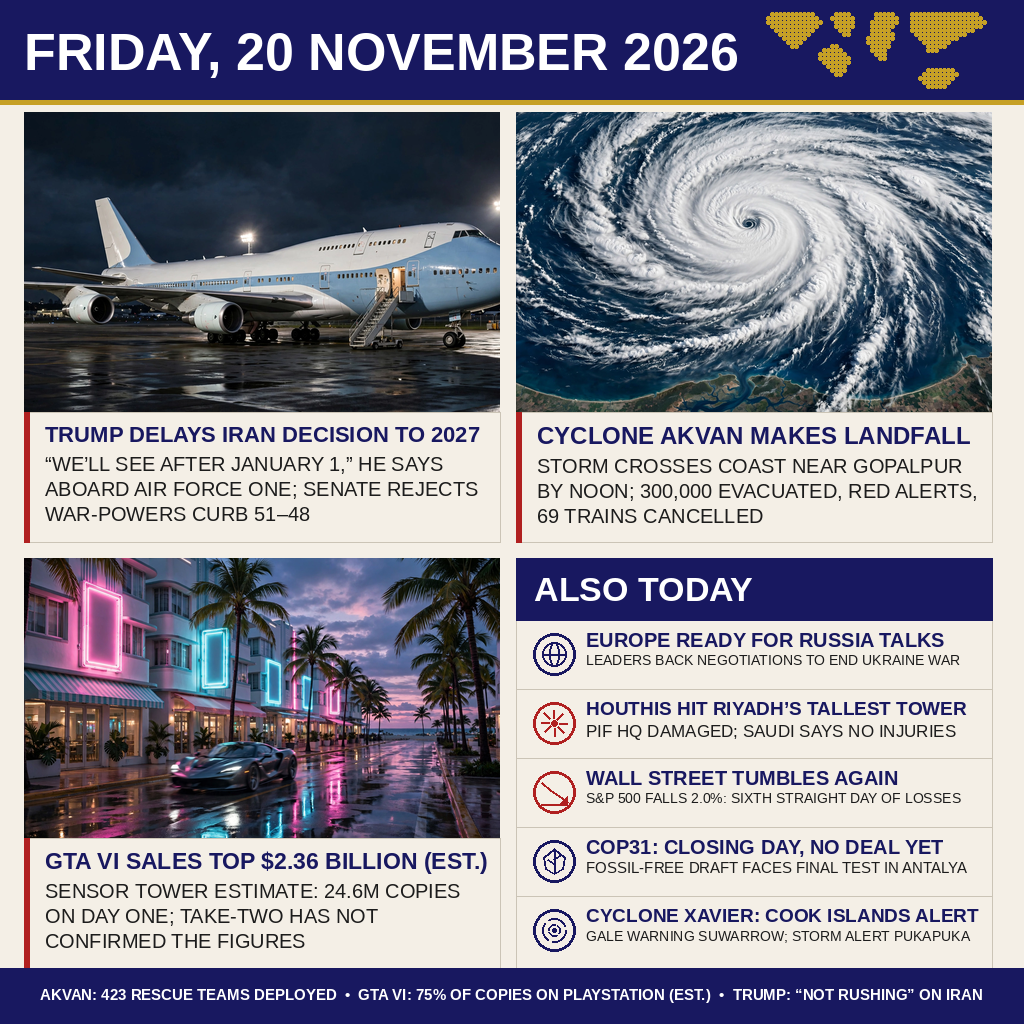
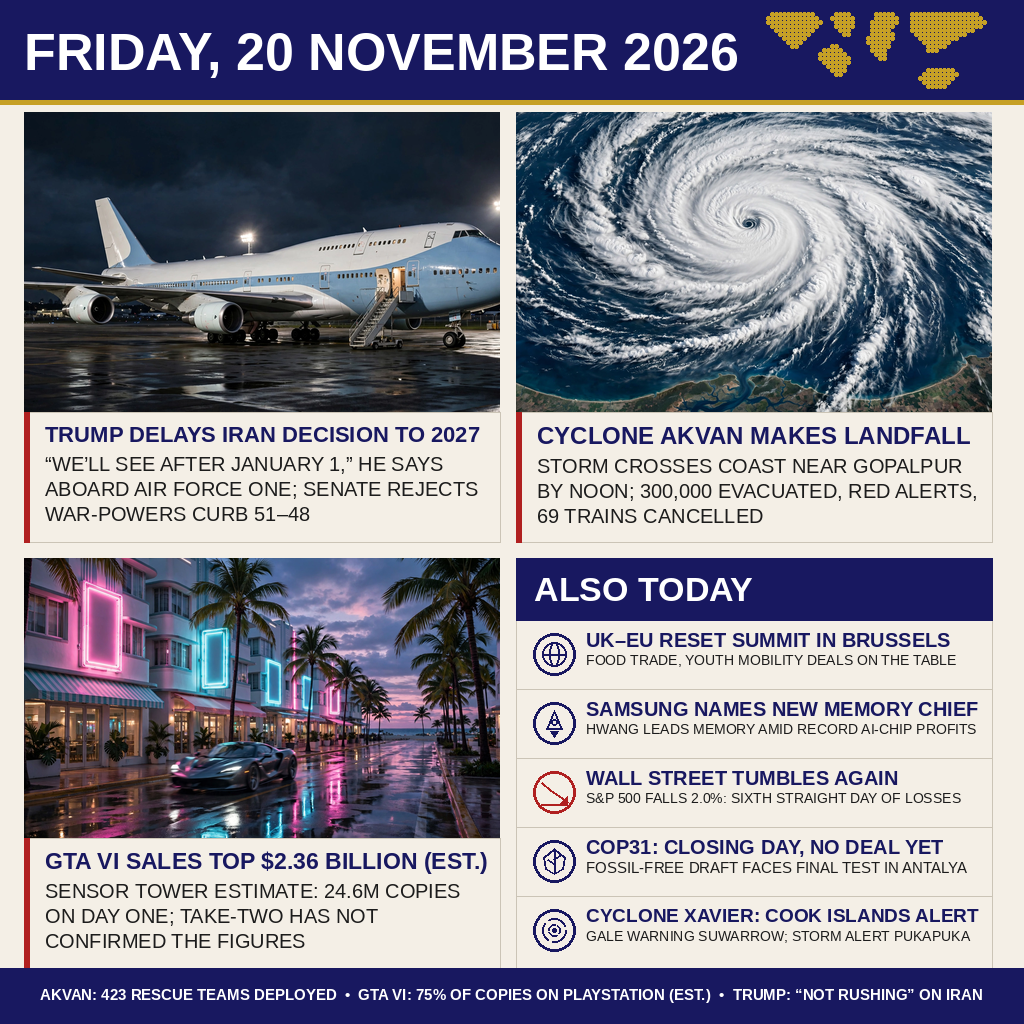
news-image-20261120 v3 follow-up: swap two 19 Nov strip items for verified 20 Nov stories
Europe/Russia talks (Berlin statements, 19 Nov) and Houthis/Riyadh tower
(strike, 19 Nov) replaced with the UK-EU reset summit in Brussels
(Reuters, 20 Nov) and Samsung Electronics' leadership reshuffle
(Samsung newsroom / Reuters, 20 Nov). Pixel diff vs 258e08e confined to
strip rows 1-2; rest of image unchanged. Build deterministic.

Changed region(s): [[0.5625, 0.5938, 0.9375, 0.6562], [0.5, 0.6875, 0.9688, 0.7188]]

diff --git a/build_entry.py b/build_entry.py
@@ -13,6 +13,12 @@ gone, and the GTA VI panel now uses Sensor Tower's updated estimate as
 reported on 20 Nov, labelled (EST.). Every remaining item was verified
 against reporting dated 20 November 2026.
 
+Follow-up fix: two strip items whose underlying events were 19 Nov —
+the Berlin statements on Russia talks and the Houthi strike on Riyadh's
+PIF tower — are replaced with two stories of 20 Nov itself: the UK-EU
+reset summit in Brussels (Reuters, 20 Nov) and Samsung Electronics'
+leadership reshuffle in Seoul (Samsung newsroom / Reuters, 20 Nov).
+
 Run:  python3 build_entry.py   -> writes entry.png next to this script.
 """
 
@@ -206,10 +212,10 @@ TOP_STORIES = [
 ]
 
 ALSO_TODAY = [
-    ("globe", NAVY, "EUROPE READY FOR RUSSIA TALKS",
-     "LEADERS BACK NEGOTIATIONS TO END UKRAINE WAR"),
-    ("burst", RED, "HOUTHIS HIT RIYADH\u2019S TALLEST TOWER",
-     "PIF HQ DAMAGED; SAUDI SAYS NO INJURIES"),
+    ("globe", NAVY, "UK\u2013EU RESET SUMMIT IN BRUSSELS",
+     "FOOD TRADE, YOUTH MOBILITY DEALS ON THE TABLE"),
+    ("rocket", NAVY, "SAMSUNG NAMES NEW MEMORY CHIEF",
+     "HWANG LEADS MEMORY AMID RECORD AI-CHIP PROFITS"),
     ("chart", RED, "WALL STREET TUMBLES AGAIN",
      "S&P 500 FALLS 2.0%: SIXTH STRAIGHT DAY OF LOSSES"),
     ("leaf", NAVY, "COP31: CLOSING DAY, NO DEAL YET",

diff --git a/README.md b/README.md
@@ -4,9 +4,9 @@
 [![rank](https://make.fun/badge/news-image-20261120/kingcritket/news-image-20261120-bot/rank.svg)](https://make.fun/bounty/news-image-20261120/leaderboard?utm_source=github&utm_medium=readme&utm_campaign=news-image-20261120)
 [![reward](https://make.fun/badge/news-image-20261120/kingcritket/news-image-20261120-bot/reward.svg)](https://make.fun/bounty/news-image-20261120?utm_source=github&utm_medium=readme&utm_campaign=news-image-20261120)
 
-One image summing up the world news of Friday 20 November 2026: Trump pushes any decision on renewed strikes against Iran into next year — "we'll see what happens after January 1" — telling reporters aboard Air Force One on his flight home from China, as the Senate rejects a war-powers curb 51–48; Cyclone Akvan makes landfall near Gopalpur on India's east coast, with about 300,000 people evacuated, red alerts issued and 69 trains cancelled; and Sensor Tower's updated estimate puts GTA VI's day-one sales at $2.36 billion on 24.6 million copies — an outside estimate that Take-Two has not confirmed. Also today: European leaders say they are ready for talks with Russia on ending the Ukraine war, a Houthi strike damages Riyadh's tallest tower (the PIF headquarters), Wall Street falls 2.0% for a sixth straight day, COP31 reaches its closing day in Antalya with no final deal yet, and Cyclone Xavier keeps the Cook Islands under gale and storm alerts.
+One image summing up the world news of Friday 20 November 2026: Trump pushes any decision on renewed strikes against Iran into next year — "we'll see what happens after January 1" — telling reporters aboard Air Force One on his flight home from China, as the Senate rejects a war-powers curb 51–48; Cyclone Akvan makes landfall near Gopalpur on India's east coast, with about 300,000 people evacuated, red alerts issued and 69 trains cancelled; and Sensor Tower's updated estimate puts GTA VI's day-one sales at $2.36 billion on 24.6 million copies — an outside estimate that Take-Two has not confirmed. Also today: Britain and the EU hold their reset summit in Brussels, with food-trade and youth-mobility deals on the table; Samsung Electronics names new heads for its memory-chip and mobile businesses in a Seoul reshuffle; Wall Street falls 2.0% for a sixth straight day, COP31 reaches its closing day in Antalya with no final deal yet, and Cyclone Xavier keeps the Cook Islands under gale and storm alerts.
 
-All stories verified against reporting dated 20 November 2026 (Reuters, AP, BBC, IMD, The Hindu, Deadline). This v3 corrects the previous version's faithfulness defects: it removes four items that belonged to earlier days — the ICJ's Myanmar genocide ruling (delivered 19 Nov), Voyager 1's light-day milestone (18 Nov), JAXA's Hayabusa2 announcement (17 Nov) and the Pete Rose pardon (announced 19 Nov) — along with a ticker that repeated 18–19 Nov items, and it replaces the GTA panel's "$1.8 billion" stated as fact with Sensor Tower's 20 Nov updated estimate, labelled (EST.). Three AI-generated scene photos with no text baked in, composited with PIL; every word on the image is drawn by PIL in Liberation Sans, plus a dotted world map. The image is built by `build_entry.py` and shipped as `entry.png`; `main.py` copies it to the output directory.
+All stories verified against reporting dated 20 November 2026 (Reuters, AP, BBC, IMD, The Hindu, Deadline). This v3 corrects the previous version's faithfulness defects: it removes four items that belonged to earlier days — the ICJ's Myanmar genocide ruling (delivered 19 Nov), Voyager 1's light-day milestone (18 Nov), JAXA's Hayabusa2 announcement (17 Nov) and the Pete Rose pardon (announced 19 Nov) — along with a ticker that repeated 18–19 Nov items, and it replaces the GTA panel's "$1.8 billion" stated as fact with Sensor Tower's 20 Nov updated estimate, labelled (EST.). A follow-up fix replaces two more strip items whose events belonged to 19 Nov — the Berlin statements on talks with Russia and the Houthi strike on Riyadh's PIF tower — with two stories of 20 Nov itself: the UK–EU reset summit in Brussels (Reuters, 20 Nov) and Samsung Electronics' leadership reshuffle (Samsung newsroom and Reuters, 20 Nov). Three AI-generated scene photos with no text baked in, composited with PIL; every word on the image is drawn by PIL in Liberation Sans, plus a dotted world map. The image is built by `build_entry.py` and shipped as `entry.png`; `main.py` copies it to the output directory.
 
 ## Run it
 
